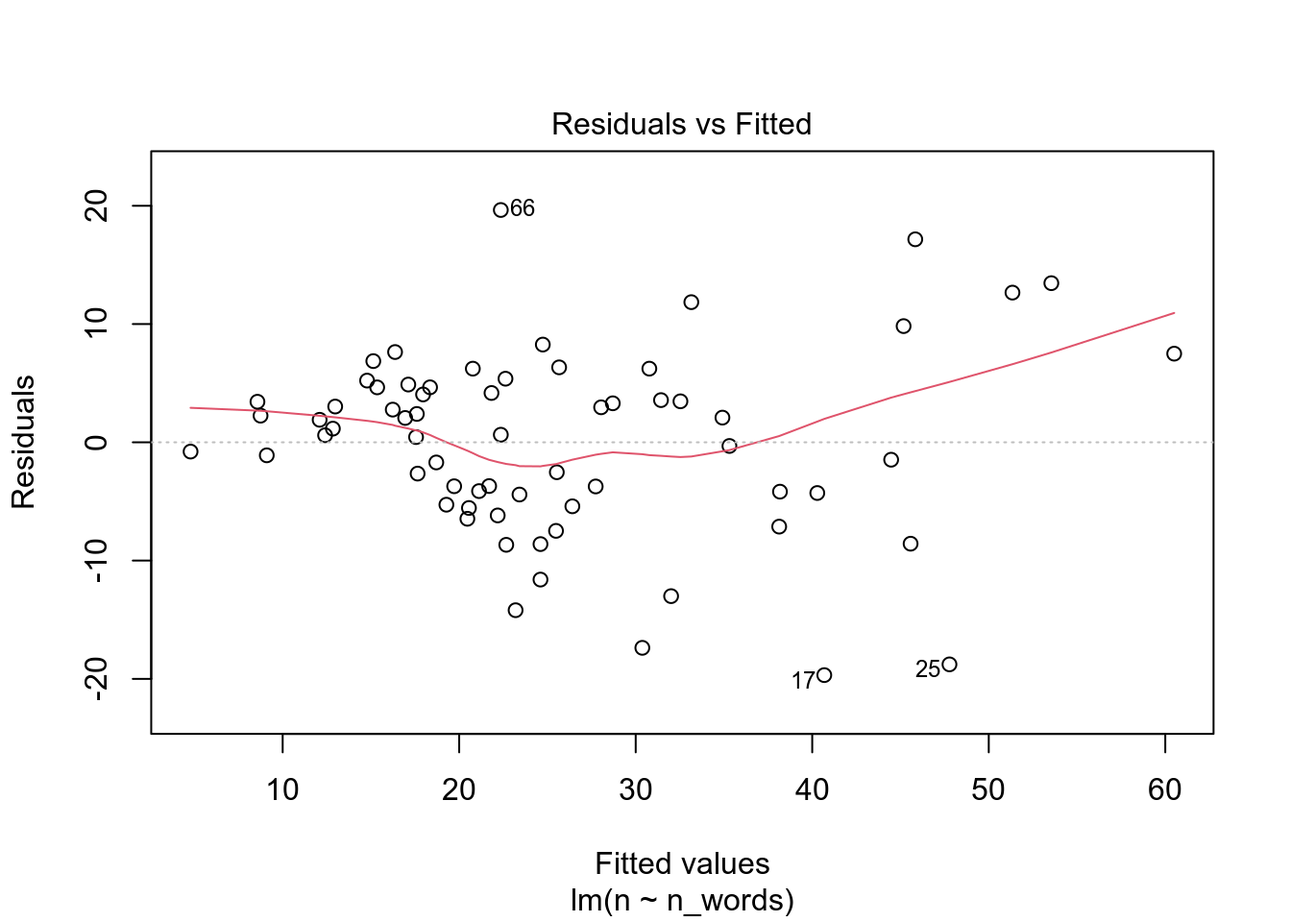
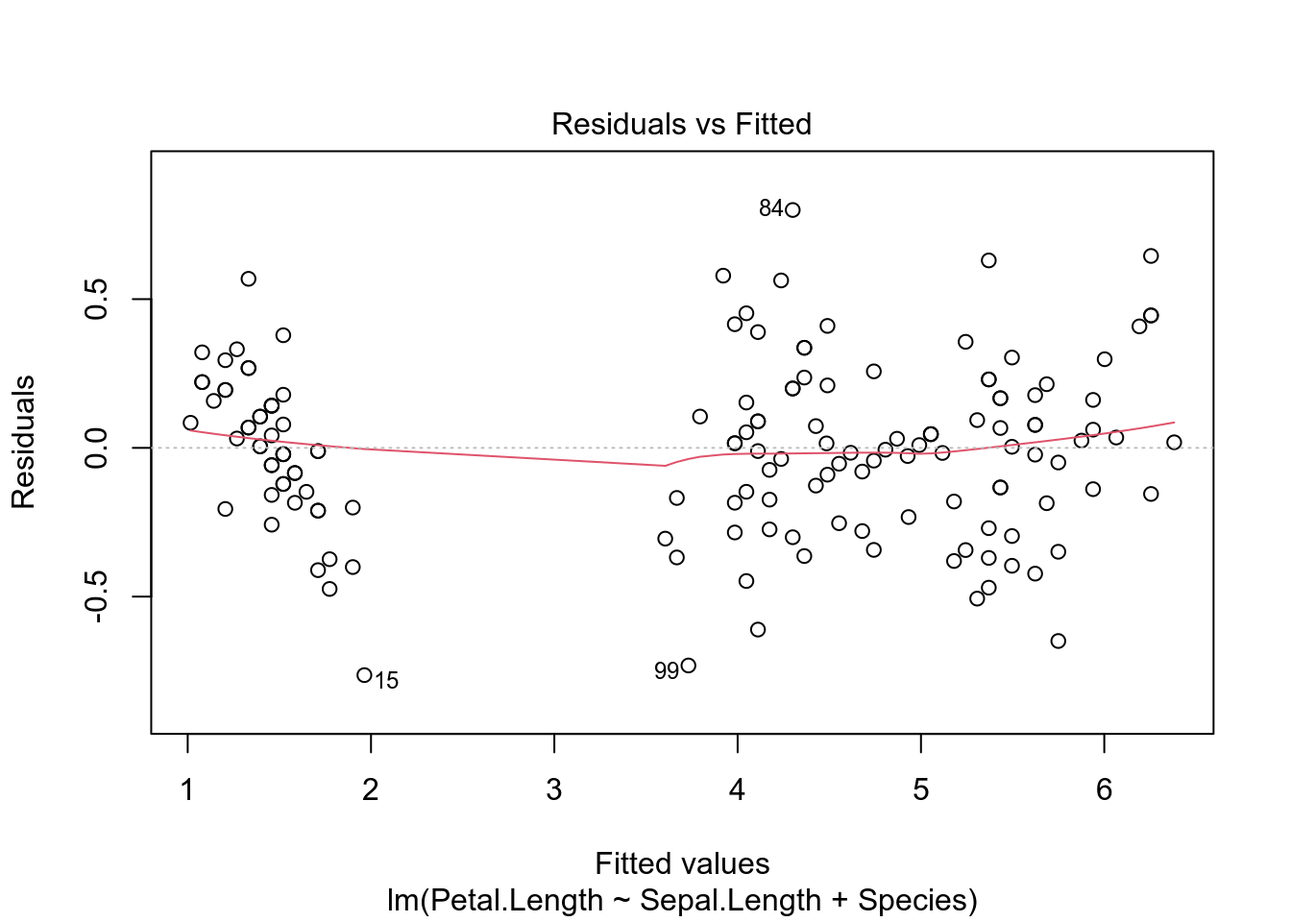
finish regression lecture

diff --git a/docs/корреляция-и-регрессия.html b/docs/корреляция-и-регрессия.html
@@ -807,38 +807,25 @@ code span.wa { color: #60a0b0; font-weight: bold; font-style: italic; } /* Warni
 <div id="категориальные-переменные-1" class="section level3">
 <h3><span class="header-section-number">15.5.3</span> Категориальные переменные</h3>
 <p>Что если мы хотим включить в наш анализ категориальные переменные? Давайте рассмотрим простой пример с <a href="https://github.com/agricolamz/DS_for_DH/raw/master/data/tidy_chekhov.tsv">рассказами Чехова</a> и <a href="https://github.com/agricolamz/DS_for_DH/raw/master/data/tidy_zoshenko.csv">Зощенко</a>, которые мы рассматривали в прошлом разделе. Мы будем анализировать логарифм доли слов деньги:</p>
-<div class="sourceCode" id="cb48"><pre class="sourceCode r"><code class="sourceCode r"><span id="cb48-1"><a href="корреляция-и-регрессия.html#cb48-1"></a>chekhov &lt;-<span class="st"> </span><span class="kw">read_tsv</span>(<span class="st">&quot;https://github.com/agricolamz/DS_for_DH/raw/master/data/tidy_chekhov.tsv&quot;</span>)</span></code></pre></div>
-<pre><code>## Parsed with column specification:
-## cols(
-##   titles = col_character(),
-##   word = col_character(),
-##   n = col_double(),
-##   n_words = col_double()
-## )</code></pre>
-<div class="sourceCode" id="cb50"><pre class="sourceCode r"><code class="sourceCode r"><span id="cb50-1"><a href="корреляция-и-регрессия.html#cb50-1"></a>zoshenko &lt;-<span class="st"> </span><span class="kw">read_tsv</span>(<span class="st">&quot;https://github.com/agricolamz/DS_for_DH/raw/master/data/tidy_zoshenko.csv&quot;</span>)</span></code></pre></div>
-<pre><code>## Parsed with column specification:
-## cols(
-##   titles = col_character(),
-##   word = col_character(),
-##   n = col_double(),
-##   n_words = col_double()
-## )</code></pre>
-<div class="sourceCode" id="cb52"><pre class="sourceCode r"><code class="sourceCode r"><span id="cb52-1"><a href="корреляция-и-регрессия.html#cb52-1"></a>chekhov<span class="op">$</span>author &lt;-<span class="st"> &quot;Чехов&quot;</span></span>
-<span id="cb52-2"><a href="корреляция-и-регрессия.html#cb52-2"></a>zoshenko<span class="op">$</span>author &lt;-<span class="st"> &quot;Зощенко&quot;</span></span>
-<span id="cb52-3"><a href="корреляция-и-регрессия.html#cb52-3"></a></span>
-<span id="cb52-4"><a href="корреляция-и-регрессия.html#cb52-4"></a>chekhov <span class="op">%&gt;%</span><span class="st"> </span></span>
-<span id="cb52-5"><a href="корреляция-и-регрессия.html#cb52-5"></a><span class="st">  </span><span class="kw">bind_rows</span>(zoshenko) <span class="op">%&gt;%</span><span class="st"> </span></span>
-<span id="cb52-6"><a href="корреляция-и-регрессия.html#cb52-6"></a><span class="st">  </span><span class="kw">filter</span>(<span class="kw">str_detect</span>(word, <span class="st">&quot;деньг&quot;</span>)) <span class="op">%&gt;%</span><span class="st"> </span></span>
-<span id="cb52-7"><a href="корреляция-и-регрессия.html#cb52-7"></a><span class="st">  </span><span class="kw">group_by</span>(author, titles, n_words) <span class="op">%&gt;%</span><span class="st"> </span></span>
-<span id="cb52-8"><a href="корреляция-и-регрессия.html#cb52-8"></a><span class="st">  </span><span class="kw">summarise</span>(<span class="dt">n =</span> <span class="kw">sum</span>(n)) <span class="op">%&gt;%</span><span class="st"> </span></span>
-<span id="cb52-9"><a href="корреляция-и-регрессия.html#cb52-9"></a><span class="st">  </span><span class="kw">mutate</span>(<span class="dt">log_ratio =</span> <span class="kw">log</span>(n<span class="op">/</span>n_words)) -&gt;</span>
-<span id="cb52-10"><a href="корреляция-и-регрессия.html#cb52-10"></a><span class="st">  </span>checkov_zoshenko</span></code></pre></div>
+<div class="sourceCode" id="cb48"><pre class="sourceCode r"><code class="sourceCode r"><span id="cb48-1"><a href="корреляция-и-регрессия.html#cb48-1"></a>chekhov &lt;-<span class="st"> </span><span class="kw">read_tsv</span>(<span class="st">&quot;https://github.com/agricolamz/DS_for_DH/raw/master/data/tidy_chekhov.tsv&quot;</span>)</span>
+<span id="cb48-2"><a href="корреляция-и-регрессия.html#cb48-2"></a>zoshenko &lt;-<span class="st"> </span><span class="kw">read_tsv</span>(<span class="st">&quot;https://github.com/agricolamz/DS_for_DH/raw/master/data/tidy_zoshenko.csv&quot;</span>)</span>
+<span id="cb48-3"><a href="корреляция-и-регрессия.html#cb48-3"></a></span>
+<span id="cb48-4"><a href="корреляция-и-регрессия.html#cb48-4"></a>chekhov<span class="op">$</span>author &lt;-<span class="st"> &quot;Чехов&quot;</span></span>
+<span id="cb48-5"><a href="корреляция-и-регрессия.html#cb48-5"></a>zoshenko<span class="op">$</span>author &lt;-<span class="st"> &quot;Зощенко&quot;</span></span>
+<span id="cb48-6"><a href="корреляция-и-регрессия.html#cb48-6"></a></span>
+<span id="cb48-7"><a href="корреляция-и-регрессия.html#cb48-7"></a>chekhov <span class="op">%&gt;%</span><span class="st"> </span></span>
+<span id="cb48-8"><a href="корреляция-и-регрессия.html#cb48-8"></a><span class="st">  </span><span class="kw">bind_rows</span>(zoshenko) <span class="op">%&gt;%</span><span class="st"> </span></span>
+<span id="cb48-9"><a href="корреляция-и-регрессия.html#cb48-9"></a><span class="st">  </span><span class="kw">filter</span>(<span class="kw">str_detect</span>(word, <span class="st">&quot;деньг&quot;</span>)) <span class="op">%&gt;%</span><span class="st"> </span></span>
+<span id="cb48-10"><a href="корреляция-и-регрессия.html#cb48-10"></a><span class="st">  </span><span class="kw">group_by</span>(author, titles, n_words) <span class="op">%&gt;%</span><span class="st"> </span></span>
+<span id="cb48-11"><a href="корреляция-и-регрессия.html#cb48-11"></a><span class="st">  </span><span class="kw">summarise</span>(<span class="dt">n =</span> <span class="kw">sum</span>(n)) <span class="op">%&gt;%</span><span class="st"> </span></span>
+<span id="cb48-12"><a href="корреляция-и-регрессия.html#cb48-12"></a><span class="st">  </span><span class="kw">mutate</span>(<span class="dt">log_ratio =</span> <span class="kw">log</span>(n<span class="op">/</span>n_words)) -&gt;</span>
+<span id="cb48-13"><a href="корреляция-и-регрессия.html#cb48-13"></a><span class="st">  </span>checkov_zoshenko</span></code></pre></div>
 <p>Визуализация выглядит так:
 <img src="DS_for_DH_files/figure-html/unnamed-chunk-60-1.png" width="672" /></p>
 <p>Красной точкой обозначены средние значения, так что мы видим, что между двумя писателями есть разница, но является ли она статистически значимой? В прошлом разделе, мы рассмотрели, что в таком случае можно сделать t-test:</p>
-<div class="sourceCode" id="cb53"><pre class="sourceCode r"><code class="sourceCode r"><span id="cb53-1"><a href="корреляция-и-регрессия.html#cb53-1"></a><span class="kw">t.test</span>(log_ratio<span class="op">~</span>author, </span>
-<span id="cb53-2"><a href="корреляция-и-регрессия.html#cb53-2"></a>       <span class="dt">data =</span> checkov_zoshenko, </span>
-<span id="cb53-3"><a href="корреляция-и-регрессия.html#cb53-3"></a>       <span class="dt">var.equal =</span><span class="ot">TRUE</span>) <span class="co"># здесь я мухлюю, отключая поправку Уэлча</span></span></code></pre></div>
+<div class="sourceCode" id="cb49"><pre class="sourceCode r"><code class="sourceCode r"><span id="cb49-1"><a href="корреляция-и-регрессия.html#cb49-1"></a><span class="kw">t.test</span>(log_ratio<span class="op">~</span>author, </span>
+<span id="cb49-2"><a href="корреляция-и-регрессия.html#cb49-2"></a>       <span class="dt">data =</span> checkov_zoshenko, </span>
+<span id="cb49-3"><a href="корреляция-и-регрессия.html#cb49-3"></a>       <span class="dt">var.equal =</span><span class="ot">TRUE</span>) <span class="co"># здесь я мухлюю, отключая поправку Уэлча</span></span></code></pre></div>
 <pre><code>## 
 ##  Two Sample t-test
 ## 
@@ -852,17 +839,17 @@ code span.wa { color: #60a0b0; font-weight: bold; font-style: italic; } /* Warni
 ##             -5.021262             -6.341226</code></pre>
 <p>Разница между группами является статистически значимой (t(125) = 5.6871, p-value = 8.665e-08).</p>
 <p>Для того, чтобы запустить регрессию на категориальных данных категориальная переменная автоматически разбивается на группу бинарных dummy-переменных:</p>
-<div class="sourceCode" id="cb55"><pre class="sourceCode r"><code class="sourceCode r"><span id="cb55-1"><a href="корреляция-и-регрессия.html#cb55-1"></a><span class="kw">tibble</span>(<span class="dt">author =</span> <span class="kw">c</span>(<span class="st">&quot;Чехов&quot;</span>, <span class="st">&quot;Зощенко&quot;</span>),</span>
-<span id="cb55-2"><a href="корреляция-и-регрессия.html#cb55-2"></a>       <span class="dt">dummy_chekhov =</span> <span class="kw">c</span>(<span class="dv">1</span>, <span class="dv">0</span>),</span>
-<span id="cb55-3"><a href="корреляция-и-регрессия.html#cb55-3"></a>       <span class="dt">dummy_zoshenko =</span> <span class="kw">c</span>(<span class="dv">0</span>, <span class="dv">1</span>))</span></code></pre></div>
+<div class="sourceCode" id="cb51"><pre class="sourceCode r"><code class="sourceCode r"><span id="cb51-1"><a href="корреляция-и-регрессия.html#cb51-1"></a><span class="kw">tibble</span>(<span class="dt">author =</span> <span class="kw">c</span>(<span class="st">&quot;Чехов&quot;</span>, <span class="st">&quot;Зощенко&quot;</span>),</span>
+<span id="cb51-2"><a href="корреляция-и-регрессия.html#cb51-2"></a>       <span class="dt">dummy_chekhov =</span> <span class="kw">c</span>(<span class="dv">1</span>, <span class="dv">0</span>),</span>
+<span id="cb51-3"><a href="корреляция-и-регрессия.html#cb51-3"></a>       <span class="dt">dummy_zoshenko =</span> <span class="kw">c</span>(<span class="dv">0</span>, <span class="dv">1</span>))</span></code></pre></div>
 <div data-pagedtable="false">
 <script data-pagedtable-source type="application/json">
 {"columns":[{"label":["author"],"name":[1],"type":["chr"],"align":["left"]},{"label":["dummy_chekhov"],"name":[2],"type":["dbl"],"align":["right"]},{"label":["dummy_zoshenko"],"name":[3],"type":["dbl"],"align":["right"]}],"data":[{"1":"Чехов","2":"1","3":"0"},{"1":"Зощенко","2":"0","3":"1"}],"options":{"columns":{"min":{},"max":[10]},"rows":{"min":[10],"max":[10]},"pages":{}}}
   </script>
 </div>
 <p>Дальше для регрессионного анализа выкидывают одну из переменных, так как иначе модель не сойдется (dummy-переменных всегда n-1, где n — количество категорий в переменной).</p>
-<div class="sourceCode" id="cb56"><pre class="sourceCode r"><code class="sourceCode r"><span id="cb56-1"><a href="корреляция-и-регрессия.html#cb56-1"></a><span class="kw">tibble</span>(<span class="dt">author =</span> <span class="kw">c</span>(<span class="st">&quot;Чехов&quot;</span>, <span class="st">&quot;Зощенко&quot;</span>),</span>
-<span id="cb56-2"><a href="корреляция-и-регрессия.html#cb56-2"></a>       <span class="dt">dummy_chekhov =</span> <span class="kw">c</span>(<span class="dv">1</span>, <span class="dv">0</span>))</span></code></pre></div>
+<div class="sourceCode" id="cb52"><pre class="sourceCode r"><code class="sourceCode r"><span id="cb52-1"><a href="корреляция-и-регрессия.html#cb52-1"></a><span class="kw">tibble</span>(<span class="dt">author =</span> <span class="kw">c</span>(<span class="st">&quot;Чехов&quot;</span>, <span class="st">&quot;Зощенко&quot;</span>),</span>
+<span id="cb52-2"><a href="корреляция-и-регрессия.html#cb52-2"></a>       <span class="dt">dummy_chekhov =</span> <span class="kw">c</span>(<span class="dv">1</span>, <span class="dv">0</span>))</span></code></pre></div>
 <div data-pagedtable="false">
 <script data-pagedtable-source type="application/json">
 {"columns":[{"label":["author"],"name":[1],"type":["chr"],"align":["left"]},{"label":["dummy_chekhov"],"name":[2],"type":["dbl"],"align":["right"]}],"data":[{"1":"Чехов","2":"1"},{"1":"Зощенко","2":"0"}],"options":{"columns":{"min":{},"max":[10]},"rows":{"min":[10],"max":[10]},"pages":{}}}
@@ -876,8 +863,8 @@ code span.wa { color: #60a0b0; font-weight: bold; font-style: italic; } /* Warni
 \end{array}\right.\]</span></p>
 <p>Таким образом, получается, что свободный член <span class="math inline">\(\beta_0\)</span> и угловой коэффициент <span class="math inline">\(\beta_1\)</span> в регресси с категориальной переменной получает другую интерпретацию. Одно из значений переменной кодируется при помощи <span class="math inline">\(\beta_0\)</span>, а сумма коэффициентов <span class="math inline">\(\beta_0+\beta_1\)</span> дают другое значение переменной. Так что <span class="math inline">\(\beta_1\)</span> — это разница между оценками двух значений переменной.</p>
 <p>Давайте теперь запустим регрессию на этих же данных:</p>
-<div class="sourceCode" id="cb57"><pre class="sourceCode r"><code class="sourceCode r"><span id="cb57-1"><a href="корреляция-и-регрессия.html#cb57-1"></a>fit2 &lt;-<span class="st"> </span><span class="kw">lm</span>(log_ratio<span class="op">~</span>author, <span class="dt">data =</span> checkov_zoshenko)</span>
-<span id="cb57-2"><a href="корреляция-и-регрессия.html#cb57-2"></a><span class="kw">summary</span>(fit)</span></code></pre></div>
+<div class="sourceCode" id="cb53"><pre class="sourceCode r"><code class="sourceCode r"><span id="cb53-1"><a href="корреляция-и-регрессия.html#cb53-1"></a>fit2 &lt;-<span class="st"> </span><span class="kw">lm</span>(log_ratio<span class="op">~</span>author, <span class="dt">data =</span> checkov_zoshenko)</span>
+<span id="cb53-2"><a href="корреляция-и-регрессия.html#cb53-2"></a><span class="kw">summary</span>(fit)</span></code></pre></div>
 <pre><code>## 
 ## Call:
 ## lm(formula = n ~ n_words, data = zo_filtered)
@@ -916,13 +903,13 @@ code span.wa { color: #60a0b0; font-weight: bold; font-style: italic; } /* Warni
 </ul>
 <p>В такой регресии предикторы могут быть как числовыми, так и категориальными (со всеми вытекающими последствиями, которые мы обсудили в предудщем разделе). Такую регрессию чаще всего сложно визуализировать, так как в одну регрессионную линию вкладываются сразу несколько переменных.</p>
 <p>Попробуем предсказать длину лепестка на основе длины чашелистик и вида ириса:</p>
-<div class="sourceCode" id="cb59"><pre class="sourceCode r"><code class="sourceCode r"><span id="cb59-1"><a href="корреляция-и-регрессия.html#cb59-1"></a>iris <span class="op">%&gt;%</span><span class="st"> </span></span>
-<span id="cb59-2"><a href="корреляция-и-регрессия.html#cb59-2"></a><span class="st">  </span><span class="kw">ggplot</span>(<span class="kw">aes</span>(Sepal.Length, Petal.Length, <span class="dt">color =</span> Species))<span class="op">+</span></span>
-<span id="cb59-3"><a href="корреляция-и-регрессия.html#cb59-3"></a><span class="st">  </span><span class="kw">geom_point</span>()</span></code></pre></div>
+<div class="sourceCode" id="cb55"><pre class="sourceCode r"><code class="sourceCode r"><span id="cb55-1"><a href="корреляция-и-регрессия.html#cb55-1"></a>iris <span class="op">%&gt;%</span><span class="st"> </span></span>
+<span id="cb55-2"><a href="корреляция-и-регрессия.html#cb55-2"></a><span class="st">  </span><span class="kw">ggplot</span>(<span class="kw">aes</span>(Sepal.Length, Petal.Length, <span class="dt">color =</span> Species))<span class="op">+</span></span>
+<span id="cb55-3"><a href="корреляция-и-регрессия.html#cb55-3"></a><span class="st">  </span><span class="kw">geom_point</span>()</span></code></pre></div>
 <p><img src="DS_for_DH_files/figure-html/unnamed-chunk-66-1.png" width="672" /></p>
 <p>Запустим регрессию:</p>
-<div class="sourceCode" id="cb60"><pre class="sourceCode r"><code class="sourceCode r"><span id="cb60-1"><a href="корреляция-и-регрессия.html#cb60-1"></a>fit3 &lt;-<span class="st"> </span><span class="kw">lm</span>(Petal.Length <span class="op">~</span><span class="st"> </span>Sepal.Length<span class="op">+</span><span class="st"> </span>Species, <span class="dt">data =</span> iris)</span>
-<span id="cb60-2"><a href="корреляция-и-регрессия.html#cb60-2"></a><span class="kw">summary</span>(fit3)</span></code></pre></div>
+<div class="sourceCode" id="cb56"><pre class="sourceCode r"><code class="sourceCode r"><span id="cb56-1"><a href="корреляция-и-регрессия.html#cb56-1"></a>fit3 &lt;-<span class="st"> </span><span class="kw">lm</span>(Petal.Length <span class="op">~</span><span class="st"> </span>Sepal.Length<span class="op">+</span><span class="st"> </span>Species, <span class="dt">data =</span> iris)</span>
+<span id="cb56-2"><a href="корреляция-и-регрессия.html#cb56-2"></a><span class="kw">summary</span>(fit3)</span></code></pre></div>
 <pre><code>## 
 ## Call:
 ## lm(formula = Petal.Length ~ Sepal.Length + Species, data = iris)
@@ -944,17 +931,17 @@ code span.wa { color: #60a0b0; font-weight: bold; font-style: italic; } /* Warni
 ## Multiple R-squared:  0.9749, Adjusted R-squared:  0.9744 
 ## F-statistic:  1890 on 3 and 146 DF,  p-value: &lt; 2.2e-16</code></pre>
 <p>Все предикторы статистически значимы. Давайте посмотрим предсказания модели для всех наблюдений:</p>
-<div class="sourceCode" id="cb62"><pre class="sourceCode r"><code class="sourceCode r"><span id="cb62-1"><a href="корреляция-и-регрессия.html#cb62-1"></a>iris <span class="op">%&gt;%</span><span class="st"> </span></span>
-<span id="cb62-2"><a href="корреляция-и-регрессия.html#cb62-2"></a><span class="st">  </span><span class="kw">mutate</span>(<span class="dt">prediction =</span> <span class="kw">predict</span>(fit3)) <span class="op">%&gt;%</span><span class="st"> </span></span>
-<span id="cb62-3"><a href="корреляция-и-регрессия.html#cb62-3"></a><span class="st">  </span><span class="kw">ggplot</span>(<span class="kw">aes</span>(Sepal.Length, prediction, <span class="dt">color =</span> Species))<span class="op">+</span></span>
-<span id="cb62-4"><a href="корреляция-и-регрессия.html#cb62-4"></a><span class="st">  </span><span class="kw">geom_point</span>()</span></code></pre></div>
+<div class="sourceCode" id="cb58"><pre class="sourceCode r"><code class="sourceCode r"><span id="cb58-1"><a href="корреляция-и-регрессия.html#cb58-1"></a>iris <span class="op">%&gt;%</span><span class="st"> </span></span>
+<span id="cb58-2"><a href="корреляция-и-регрессия.html#cb58-2"></a><span class="st">  </span><span class="kw">mutate</span>(<span class="dt">prediction =</span> <span class="kw">predict</span>(fit3)) <span class="op">%&gt;%</span><span class="st"> </span></span>
+<span id="cb58-3"><a href="корреляция-и-регрессия.html#cb58-3"></a><span class="st">  </span><span class="kw">ggplot</span>(<span class="kw">aes</span>(Sepal.Length, prediction, <span class="dt">color =</span> Species))<span class="op">+</span></span>
+<span id="cb58-4"><a href="корреляция-и-регрессия.html#cb58-4"></a><span class="st">  </span><span class="kw">geom_point</span>()</span></code></pre></div>
 <p><img src="DS_for_DH_files/figure-html/unnamed-chunk-68-1.png" width="672" /></p>
 <p>Всегда имеет смысл визуализировать, что нам говорит наша модель. Если использовать пакет <code>ggeffects</code> (или предшествовавший ему пакет <code>effects</code>), это можно сделать не сильно задумываясь, как это делать:</p>
-<div class="sourceCode" id="cb63"><pre class="sourceCode r"><code class="sourceCode r"><span id="cb63-1"><a href="корреляция-и-регрессия.html#cb63-1"></a><span class="kw">library</span>(ggeffects)</span>
-<span id="cb63-2"><a href="корреляция-и-регрессия.html#cb63-2"></a><span class="kw">plot</span>(<span class="kw">ggpredict</span>(fit3, <span class="dt">terms =</span> <span class="kw">c</span>(<span class="st">&quot;Sepal.Length&quot;</span>, <span class="st">&quot;Species&quot;</span>)))</span></code></pre></div>
+<div class="sourceCode" id="cb59"><pre class="sourceCode r"><code class="sourceCode r"><span id="cb59-1"><a href="корреляция-и-регрессия.html#cb59-1"></a><span class="kw">library</span>(ggeffects)</span>
+<span id="cb59-2"><a href="корреляция-и-регрессия.html#cb59-2"></a><span class="kw">plot</span>(<span class="kw">ggpredict</span>(fit3, <span class="dt">terms =</span> <span class="kw">c</span>(<span class="st">&quot;Sepal.Length&quot;</span>, <span class="st">&quot;Species&quot;</span>)))</span></code></pre></div>
 <p><img src="DS_for_DH_files/figure-html/unnamed-chunk-69-1.png" width="672" /></p>
 <p>Как видно из графиков, наша модель имеет одинаковые угловые коэффициенты (slope) для каждого из видов ириса и разные свободные члены (intercept).</p>
-<div class="sourceCode" id="cb64"><pre class="sourceCode r"><code class="sourceCode r"><span id="cb64-1"><a href="корреляция-и-регрессия.html#cb64-1"></a><span class="kw">summary</span>(fit3)</span></code></pre></div>
+<div class="sourceCode" id="cb60"><pre class="sourceCode r"><code class="sourceCode r"><span id="cb60-1"><a href="корреляция-и-регрессия.html#cb60-1"></a><span class="kw">summary</span>(fit3)</span></code></pre></div>
 <pre><code>## 
 ## Call:
 ## lm(formula = Petal.Length ~ Sepal.Length + Species, data = iris)
@@ -977,25 +964,25 @@ code span.wa { color: #60a0b0; font-weight: bold; font-style: italic; } /* Warni
 ## F-statistic:  1890 on 3 and 146 DF,  p-value: &lt; 2.2e-16</code></pre>
 <p><span class="math display">\[y_i = \left\{\begin{array}{ll} -1.70234 + 0.63211 \times \text{Sepal.Length} + \epsilon_i\text{, если вид setosa}\\ 
 -1.70234 + 2.2101 + 0.63211 \times \text{Sepal.Length} + \epsilon_i\text{, если вид versicolor} \\
--1.70234 + 3.09 \times \text{Sepal.Length} + \epsilon_i\text{, если вид virginica}
+-1.70234 + 3.09 + 0.63211 \times \text{Sepal.Length} + \epsilon_i\text{, если вид virginica}
 \end{array}\right.\]</span></p>
 </div>
 <div id="сравнение-моделей" class="section level3">
 <h3><span class="header-section-number">15.5.5</span> Сравнение моделей</h3>
 <p>Как нам решить, какая модель лучше? Ведь теперь можно добавить сколько угодно предикторов? Давайте создадим новую модель без предиктора <code>Species</code>:</p>
-<div class="sourceCode" id="cb66"><pre class="sourceCode r"><code class="sourceCode r"><span id="cb66-1"><a href="корреляция-и-регрессия.html#cb66-1"></a>fit4 &lt;-<span class="st"> </span><span class="kw">lm</span>(Petal.Length <span class="op">~</span><span class="st"> </span>Sepal.Length, <span class="dt">data =</span> iris)</span></code></pre></div>
+<div class="sourceCode" id="cb62"><pre class="sourceCode r"><code class="sourceCode r"><span id="cb62-1"><a href="корреляция-и-регрессия.html#cb62-1"></a>fit4 &lt;-<span class="st"> </span><span class="kw">lm</span>(Petal.Length <span class="op">~</span><span class="st"> </span>Sepal.Length, <span class="dt">data =</span> iris)</span></code></pre></div>
 <ul>
 <li>можно сравнивать статистическую значимость предикторов</li>
 <li>можно сравнивать <span class="math inline">\(R^2\)</span></li>
 </ul>
-<div class="sourceCode" id="cb67"><pre class="sourceCode r"><code class="sourceCode r"><span id="cb67-1"><a href="корреляция-и-регрессия.html#cb67-1"></a><span class="kw">summary</span>(fit3)<span class="op">$</span>adj.r.squared</span></code></pre></div>
+<div class="sourceCode" id="cb63"><pre class="sourceCode r"><code class="sourceCode r"><span id="cb63-1"><a href="корреляция-и-регрессия.html#cb63-1"></a><span class="kw">summary</span>(fit3)<span class="op">$</span>adj.r.squared</span></code></pre></div>
 <pre><code>## [1] 0.9743786</code></pre>
-<div class="sourceCode" id="cb69"><pre class="sourceCode r"><code class="sourceCode r"><span id="cb69-1"><a href="корреляция-и-регрессия.html#cb69-1"></a><span class="kw">summary</span>(fit4)<span class="op">$</span>adj.r.squared</span></code></pre></div>
+<div class="sourceCode" id="cb65"><pre class="sourceCode r"><code class="sourceCode r"><span id="cb65-1"><a href="корреляция-и-регрессия.html#cb65-1"></a><span class="kw">summary</span>(fit4)<span class="op">$</span>adj.r.squared</span></code></pre></div>
 <pre><code>## [1] 0.7583327</code></pre>
 <ul>
 <li>чаще всего используют так называемые информационные критерии, самый популярный – AIC (Akaike information criterion). Сами по себе значение этого критерия не имеет значения – только в сравнении моделей, построенных на похожих данных. Чем меньше значение, тем модель лучше.</li>
 </ul>
-<div class="sourceCode" id="cb71"><pre class="sourceCode r"><code class="sourceCode r"><span id="cb71-1"><a href="корреляция-и-регрессия.html#cb71-1"></a><span class="kw">AIC</span>(fit3, fit4)</span></code></pre></div>
+<div class="sourceCode" id="cb67"><pre class="sourceCode r"><code class="sourceCode r"><span id="cb67-1"><a href="корреляция-и-регрессия.html#cb67-1"></a><span class="kw">AIC</span>(fit3, fit4)</span></code></pre></div>
 <div data-pagedtable="false">
 <script data-pagedtable-source type="application/json">
 {"columns":[{"label":[""],"name":["_rn_"],"type":[""],"align":["left"]},{"label":["df"],"name":[1],"type":["dbl"],"align":["right"]},{"label":["AIC"],"name":[2],"type":["dbl"],"align":["right"]}],"data":[{"1":"5","2":"52.47418","_rn_":"fit3"},{"1":"3","2":"387.13500","_rn_":"fit4"}],"options":{"columns":{"min":{},"max":[10]},"rows":{"min":[10],"max":[10]},"pages":{}}}
@@ -1014,8 +1001,8 @@ code span.wa { color: #60a0b0; font-weight: bold; font-style: italic; } /* Warni
 <li>все наблюдения в регрессии должны быть независимы друг от друга</li>
 </ul></li>
 </ul>
-<p>Вот так вот выглядят остатки нашей первой модели (связь количества слов “и” и количества слов в рассказе Зощенко). Смотрите <a href="https://www.qualtrics.com/support/stats-iq/analyses/regression-guides/interpreting-residual-plots-improve-regression/">пост</a>, в котором обсуждается, как интерпретировать график остатков.</p>
-<div class="sourceCode" id="cb72"><pre class="sourceCode r"><code class="sourceCode r"><span id="cb72-1"><a href="корреляция-и-регрессия.html#cb72-1"></a><span class="kw">plot</span>(fit, <span class="dt">which=</span><span class="kw">c</span>(<span class="dv">1</span>, <span class="dv">2</span>))</span></code></pre></div>
+<p>Вот так вот выглядят остатки нашей модели на основе датасета <code>iris</code>. Смотрите <a href="https://www.qualtrics.com/support/stats-iq/analyses/regression-guides/interpreting-residual-plots-improve-regression/">пост</a>, в котором обсуждается, как интерпретировать график остатков.</p>
+<div class="sourceCode" id="cb68"><pre class="sourceCode r"><code class="sourceCode r"><span id="cb68-1"><a href="корреляция-и-регрессия.html#cb68-1"></a><span class="kw">plot</span>(fit3, <span class="dt">which=</span><span class="kw">c</span>(<span class="dv">1</span>, <span class="dv">2</span>))</span></code></pre></div>
 <p><img src="DS_for_DH_files/figure-html/unnamed-chunk-74-1.png" width="672" /><img src="DS_for_DH_files/figure-html/unnamed-chunk-74-2.png" width="672" /></p>
 <ul>
 <li>сущетсвуют трюки, позволяющие автоматически отбирать модели (см. функцию <code>step()</code>)</li>
